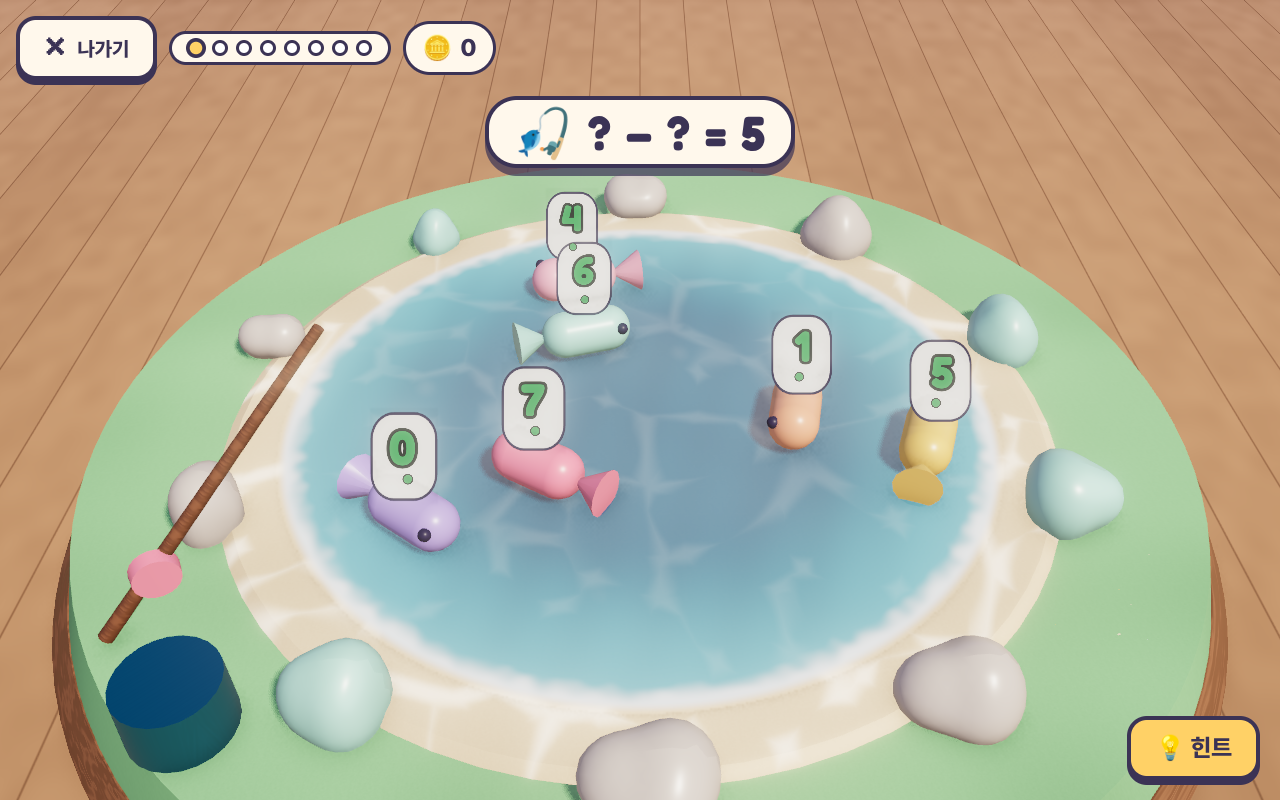
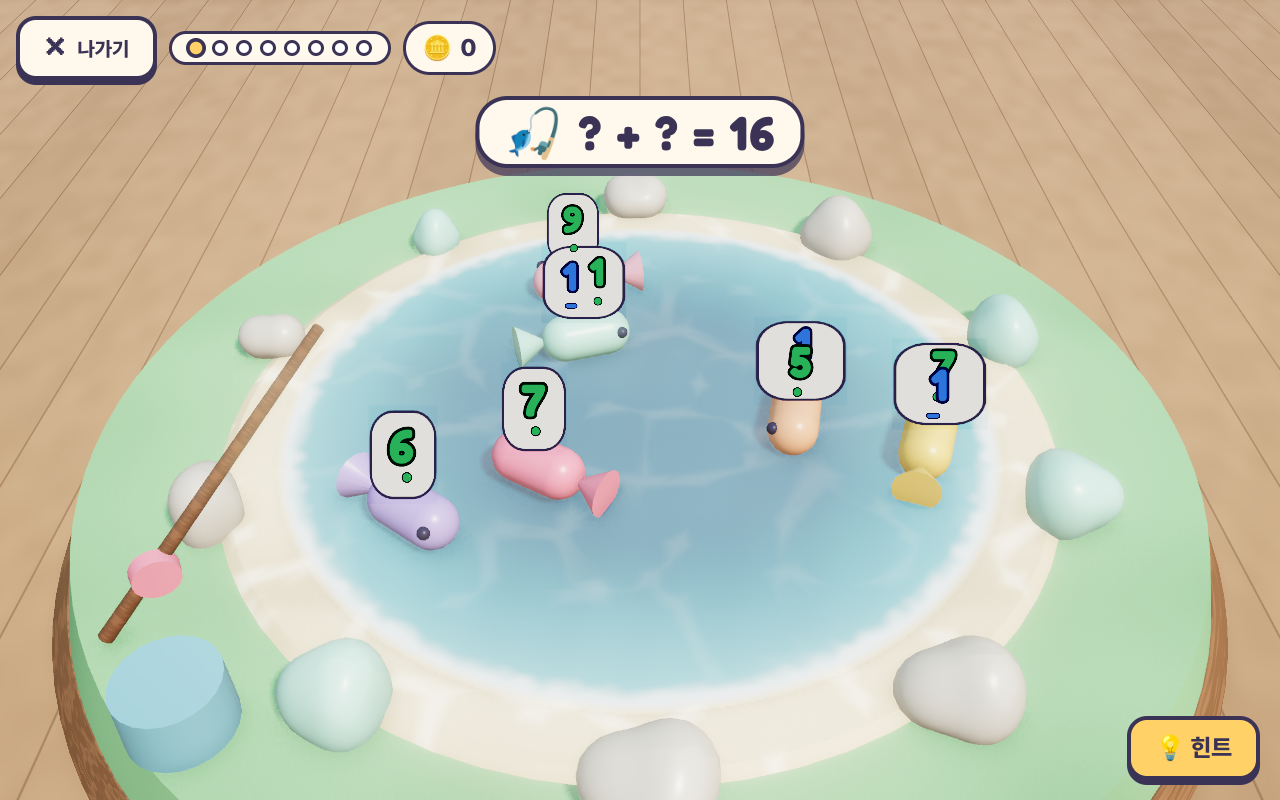
Number labels keep exact colours under contact shadows/bloom via an MRT label mask (P9)
Claude-Session: https://claude.ai/code/session_01PnKtNsdn1ybAuMuz4PHG6V

diff --git a/src/engine/fx/post-advanced.ts b/src/engine/fx/post-advanced.ts
@@ -29,32 +29,9 @@ import {
   vec4,
 } from 'three/tsl';
 import { type Camera, RenderPipeline, type Scene, type WebGPURenderer } from 'three/webgpu';
-import { LABEL_LAYER } from '../numbers/number-label';
+import { setLabelMask } from '../numbers/number-label';
 import type { TierConfig } from '../quality/quality';
 import type { Post } from './post-types';
-
-/** Second, tiny pass: only the number labels, straight onto the finished image (no AO/bloom on digits, P9). */
-function drawLabels(renderer: WebGPURenderer, scene: Scene, camera: Camera) {
-  const mask = camera.layers.mask;
-  const bg = scene.backgroundNode;
-  const autoClear = renderer.autoClear;
-  // shadow maps were just rendered for this frame: don't redraw them for the label pass
-  const casters: { shadow: { autoUpdate: boolean } }[] = [];
-  for (const o of scene.children) {
-    const l = o as { isLight?: boolean; castShadow?: boolean; shadow?: { autoUpdate: boolean } };
-    if (l.isLight && l.castShadow && l.shadow?.autoUpdate)
-      casters.push(l as { shadow: { autoUpdate: boolean } });
-  }
-  camera.layers.set(LABEL_LAYER);
-  scene.backgroundNode = null;
-  renderer.autoClear = false;
-  for (const c of casters) c.shadow.autoUpdate = false;
-  renderer.render(scene, camera);
-  for (const c of casters) c.shadow.autoUpdate = true;
-  renderer.autoClear = autoClear;
-  scene.backgroundNode = bg;
-  camera.layers.mask = mask;
-}
 
 /** Loaded on demand (separate chunk) only when a tier with contact shadows / reflections runs. */
 export function createAdvancedPost(
@@ -80,6 +57,7 @@ export function createAdvancedPost(
       mrt({
         output,
         normal: packNormalToRGB(normalView),
+        labelMask: vec4(0, 0, 0, 0),
         ...(full ? { metalrough: vec2(metalness, roughness) } : {}),
       }),
     );
@@ -115,16 +93,16 @@ export function createAdvancedPost(
     }
     const glow = bloom(lit, full ? 0.3 : 0.2, 0.45, 0.92);
     disposers.push(glow);
-    pipeline.outputNode = lit.add(glow).mul(vig);
+    // number labels write labelMask = 1 (alpha-blended): there the image keeps its original colours,
+    // untouched by contact shadows and bloom (P9 place-value colours stay exact)
+    setLabelMask(mrt({ labelMask: vec4(1, 1, 1, output.a) }));
+    const mask = scenePass.getTextureNode('labelMask').r;
+    pipeline.outputNode = mix(lit.add(glow), colorTex, mask).mul(vig);
   }
   return {
-    render: () => {
-      camera.layers.disable(LABEL_LAYER);
-      pipeline.render();
-      camera.layers.enable(LABEL_LAYER);
-      drawLabels(renderer, scene, camera);
-    },
+    render: () => pipeline.render(),
     dispose: () => {
+      setLabelMask(null);
       for (const d of disposers) d.dispose();
       pipeline.dispose();
       scenePass.dispose();

diff --git a/src/engine/numbers/number-label.ts b/src/engine/numbers/number-label.ts
@@ -21,10 +21,17 @@ let atlas: CanvasTexture | null = null;
 const materials = new Map<string, SpriteNodeMaterial>();
 
 /**
- * Number labels live on their own layer: tiers with screen-space effects draw them *after* post-processing,
- * so contact shadows and bloom never wash out the place-value colours and marks (P9).
+ * Tiers with contact shadows/bloom render an extra MRT channel `labelMask` (1 where a label is drawn) so the
+ * final composite shows labels with their original colours. Only valid while such a pipeline is active.
  */
-export const LABEL_LAYER = 2;
+let labelMRT: unknown = null;
+export function setLabelMask(node: unknown) {
+  labelMRT = node;
+  for (const m of materials.values()) {
+    (m as { mrtNode: unknown }).mrtNode = node;
+    m.needsUpdate = true;
+  }
+}
 
 /** Re-upload the atlas after a renderer was recreated (device/context loss). */
 export async function refreshDigitAtlas(): Promise<void> {
@@ -63,6 +70,7 @@ function glyphMaterial(g: Glyph, tint: string): SpriteNodeMaterial {
   m.opacityNode = t.a;
   m.sizeAttenuation = true;
   m.userData.shared = true; // cached per glyph+tint: scene teardown must not dispose it
+  (m as { mrtNode: unknown }).mrtNode = labelMRT;
   materials.set(key, m);
   return m;
 }
@@ -119,7 +127,6 @@ export class NumberLabel extends Group {
       b.scale.set(total + size * 0.55, size * 1.55, 1);
       b.position.set(0, placeColors && digitsOnly ? -size * 0.18 : 0, 0);
       b.renderOrder = 1;
-      b.layers.set(LABEL_LAYER);
       this.badgeSprite = b;
       this.add(b);
     }
@@ -131,7 +138,6 @@ export class NumberLabel extends Group {
       s.scale.set(size * (CELL_W / CELL_H), size, 1);
       s.position.set(-total / 2 + step * (i + 0.5), 0, 0);
       s.renderOrder = 2;
-      s.layers.set(LABEL_LAYER);
       s.center.set(0.5, 0.5);
       this.add(s);
       // shape mark under every digit (also single digits) so colour is never the only cue (P9)
@@ -146,7 +152,6 @@ export class NumberLabel extends Group {
         mark.scale.set(ms * (CELL_W / CELL_H), ms, 1);
         mark.position.set(-total / 2 + step * (i + 0.5), -size * 0.66, 0);
         mark.renderOrder = 2;
-        mark.layers.set(LABEL_LAYER);
         this.add(mark);
       }
     });

diff --git a/src/engine/world.ts b/src/engine/world.ts
@@ -22,7 +22,7 @@ import {
 import { createRng } from '../domain/rng/rng';
 import { type Backend, createRenderer, type RendererHandle } from '../infra/render/renderer';
 import { createPost, type Post } from './fx/post';
-import { LABEL_LAYER, refreshDigitAtlas } from './numbers/number-label';
+import { refreshDigitAtlas } from './numbers/number-label';
 import { PALETTE } from './palette';
 import { createParticles, type ParticleSystem } from './particles';
 import type { BurstKind, PhysicsFx } from './physics/physics';
@@ -92,7 +92,6 @@ export class RenderWorld {
 
   private constructor(private opts: WorldOptions) {
     this.scene.add(this.sun, this.sun.target, this.hemi);
-    this.camera.layers.enable(LABEL_LAYER);
     this.sun.position.set(6, 12, 7);
     this.sun.castShadow = true;
     this.sun.shadow.mapSize.set(1024, 1024);
